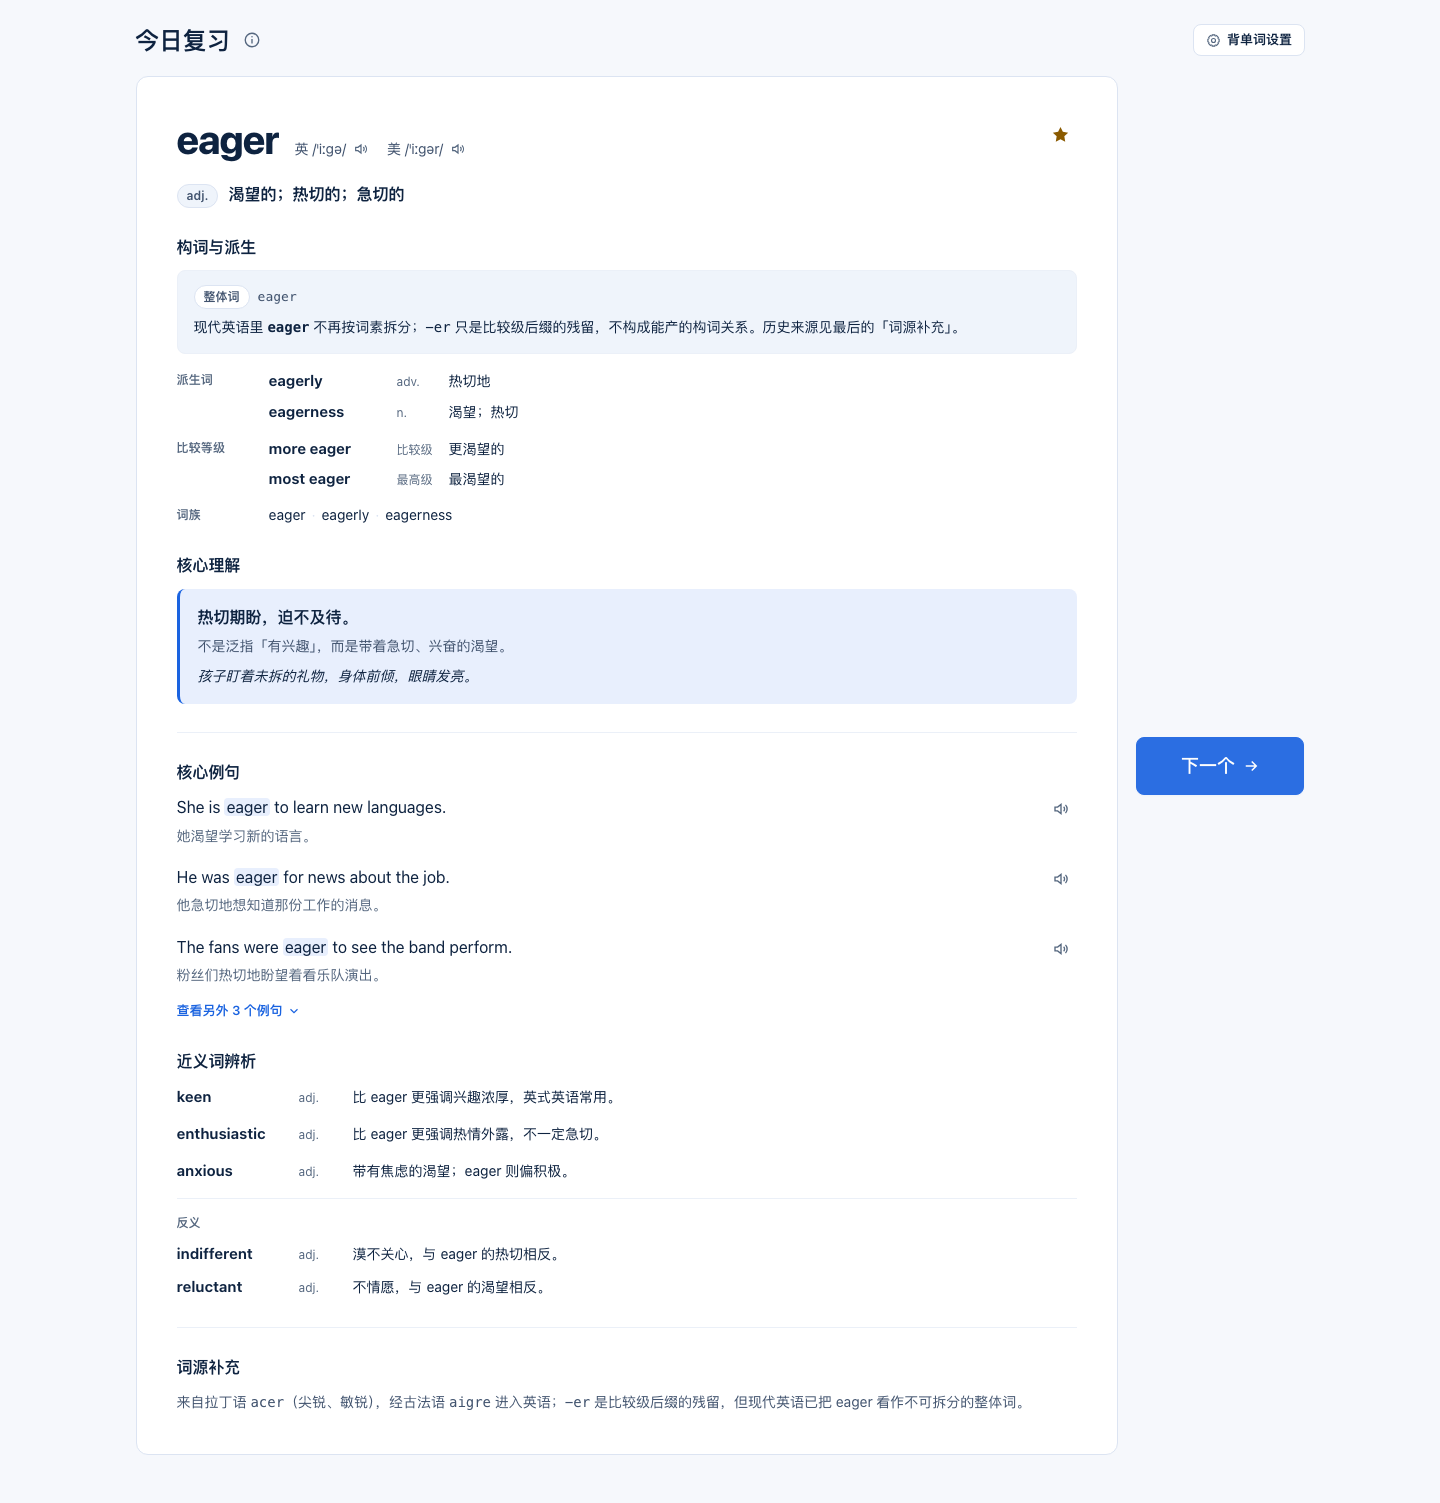
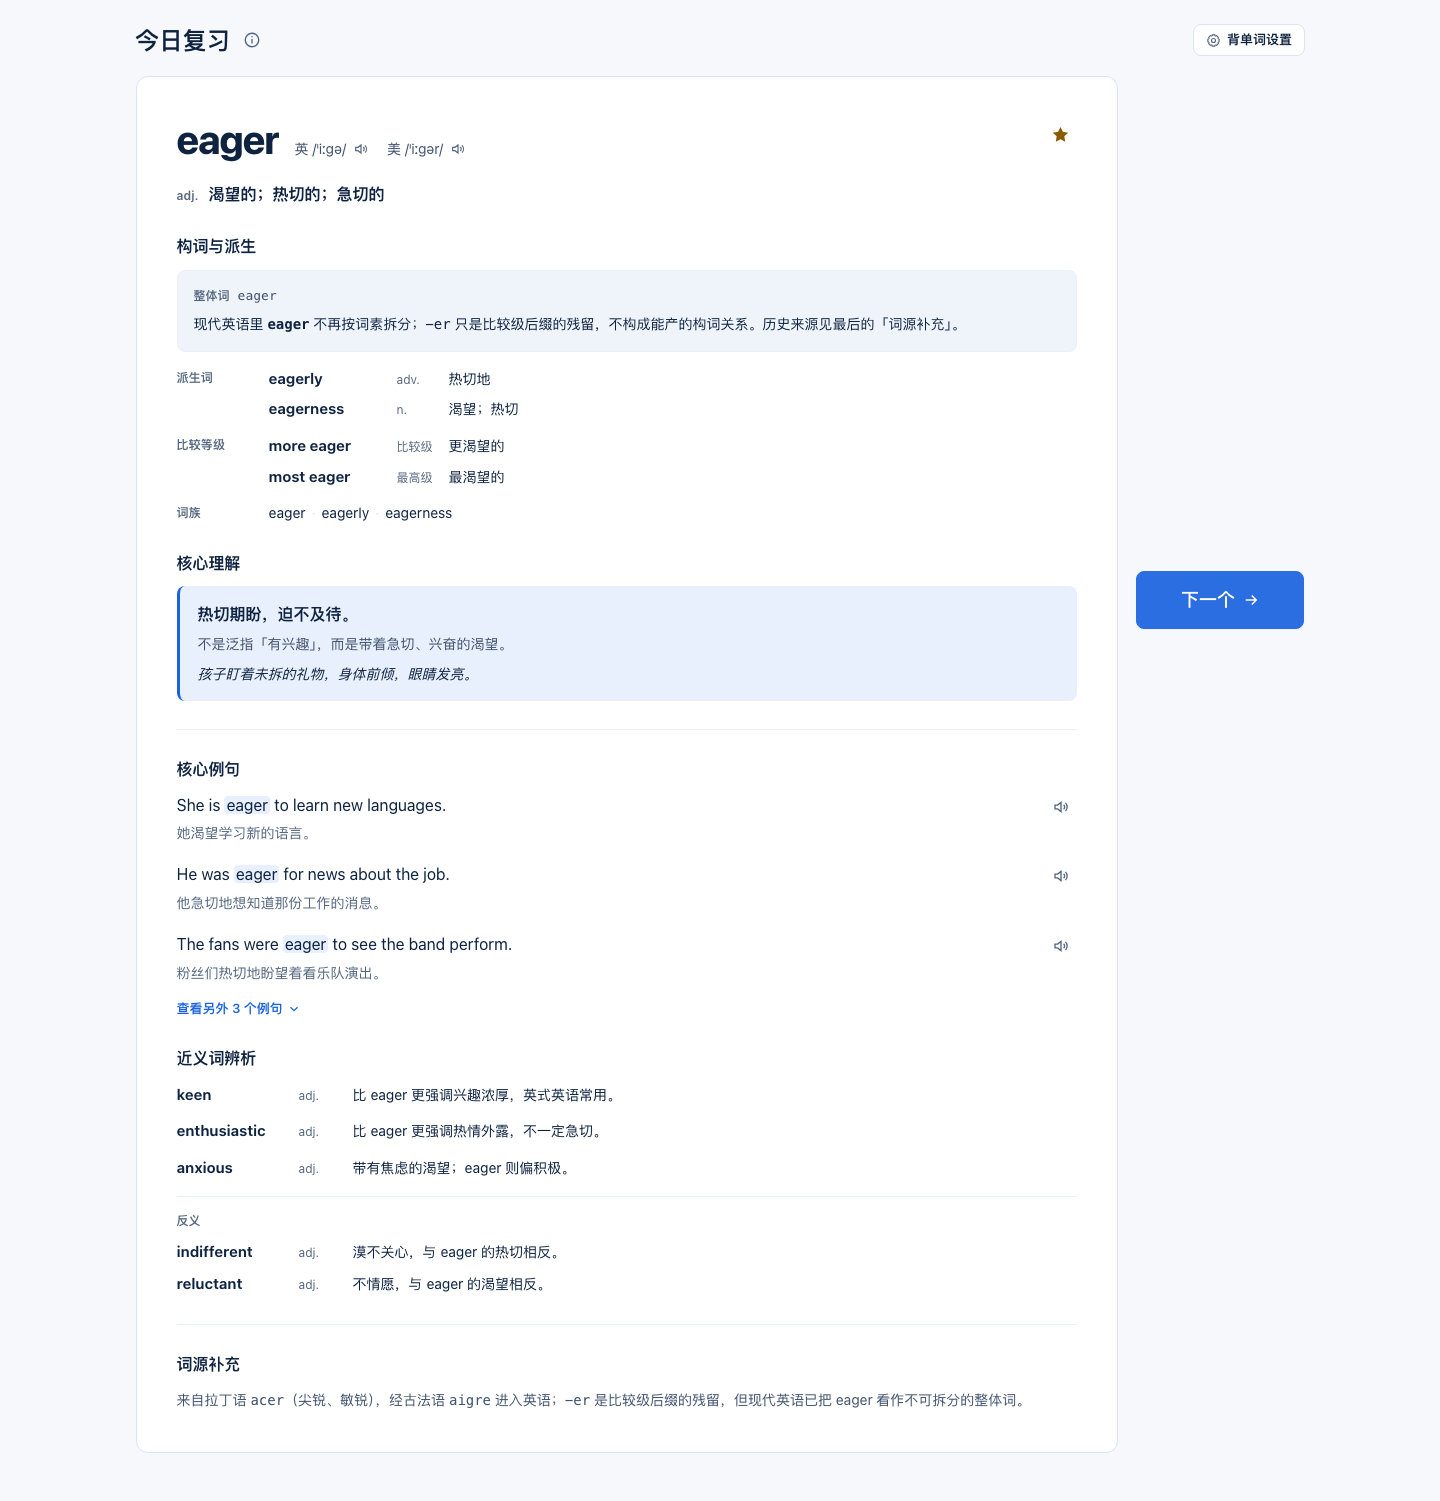
fix(mock): 下一个按钮 sticky 50vh；标签去色，设置页选中态改浅底

diff --git a/docs/mock/vocab-card-v1-2026-10-31/index.html b/docs/mock/vocab-card-v1-2026-10-31/index.html
@@ -266,14 +266,14 @@
   .pos {
     display: inline-flex;
     align-items: center;
-    padding: 0 9px;
+    padding: 0;
     font-size: 12px;
-    line-height: 1.8;
+    line-height: 1.65;
     font-weight: 600;
-    color: var(--muted);
-    background: var(--panel-2);
-    border: 1px solid var(--line);
-    border-radius: 999px;
+    color: var(--muted-2);
+    background: transparent;
+    border: 0;
+    border-radius: 0;
     white-space: nowrap;
   }
   .meaning { font-size: 16px; font-weight: 650; }
@@ -293,14 +293,14 @@
   .morph-status {
     display: inline-flex;
     align-items: center;
-    padding: 0 9px;
+    padding: 0;
     font-size: 12px;
-    line-height: 1.8;
+    line-height: 1.65;
     font-weight: 600;
-    color: var(--muted);
-    background: var(--panel);
-    border: 1px solid var(--line);
-    border-radius: 999px;
+    color: var(--muted-2);
+    background: transparent;
+    border: 0;
+    border-radius: 0;
   }
   .morph-note { margin: 0; font-size: 14px; line-height: 1.75; }
   .morph-note .mono, .mono { font-family: var(--mono); }
@@ -389,7 +389,9 @@
 
   /* 右侧「下一个」 */
   .next-btn {
-    align-self: center;
+    position: sticky;
+    top: calc(50vh - 29px);
+    align-self: flex-start;
     display: inline-flex;
     align-items: center;
     justify-content: center;
@@ -409,6 +411,7 @@
     transition: background .12s, color .12s, border-color .12s, opacity .12s, box-shadow .12s;
   }
   .next-btn:hover { opacity: 1; box-shadow: 0 2px 8px var(--line); }
+  .stage.is-front .next-btn { position: static; top: auto; align-self: center; }
   .next-btn.is-primary { background: var(--accent); border-color: var(--accent); color: var(--on-accent); }
   .next-btn.is-primary:hover { background: var(--accent-2); border-color: var(--accent-2); }
 
@@ -436,8 +439,8 @@
     cursor: pointer;
   }
   .btn:hover { border-color: var(--muted-2); }
-  .btn.is-primary { background: var(--accent); border-color: var(--accent); color: var(--on-accent); }
-  .btn.is-primary:hover { background: var(--accent-2); border-color: var(--accent-2); }
+  .btn.is-primary { background: var(--accent-weak); border-color: var(--accent); color: var(--accent); font-weight: 600; }
+  .btn.is-primary:hover { background: var(--accent-weak); border-color: var(--accent-2); color: var(--accent-2); }
   .pref-number {
     width: 84px;
     height: 32px;
@@ -511,7 +514,7 @@
     .word-card { padding: 28px 22px 30px; }
     .word-card[data-face="front"] { min-height: 360px; }
     .word { font-size: 34px; }
-    .next-btn { align-self: flex-end; }
+    .next-btn { position: static; top: auto; align-self: flex-end; }
     .first-run { flex-wrap: wrap; }
     .first-run-actions { width: 100%; justify-content: flex-end; }
     .morph-rows { grid-template-columns: 1fr; gap: 6px; }
@@ -869,6 +872,7 @@
 
   function setFace(face) {
     card.dataset.face = face;
+    $('.stage').classList.toggle('is-front', face === 'front');
     nextBtn.classList.toggle('is-primary', face === 'back');
     $$('.proto-tabs [data-view]').forEach((button) => {
       button.classList.toggle('is-on', button.dataset.view === face);

diff --git a/docs/mock/vocab-card-v1-2026-10-31/README.md b/docs/mock/vocab-card-v1-2026-10-31/README.md
@@ -96,6 +96,7 @@ const CARD_BLOCKS = ['senses', 'morphology', 'core', 'examples', 'synonyms', 'et
 ## 3. 页面 chrome
 
 - **页头**：`今日复习` + ⓘ。ⓘ 里是「今日已复习 / 剩余 / 新卡」+ 快捷键表；今日复习页本来就有这个入口（[ReviewPage.tsx:358](../../../web/src/vocab/ReviewPage.tsx#L358-L380)），不需要新做。
+- **右侧「下一个」**：按钮本身的尺寸 / 样式 / 文案不变（168×58、18px）；反面把它改成 `position: sticky; top: calc(50vh - 29px)`——**固定在视口垂直中心，滚动和卡背变长都不会把它推到下面**；卡片正面保持原来的「相对卡片垂直居中」。窄屏（≤760）仍落回卡片下方。
 - **删底部提示**：只有自由复习页有 `空格翻面 · 1 不认识 · 2 认识 · S 暂停这个词`（[FreeReviewPage.tsx:555](../../../web/src/vocab/FreeReviewPage.tsx#L555)）；删掉，改由首用提示 + ⓘ 承接。
 - **首用提示**：首次进入显示一次可关闭的顶部条，之后不再出现；文案只做「快捷键说明」，不新增改键设置（本次默认）。
 - **profile**：`背单词` 标题右侧放 ⓘ，把现在的副标题「每天背多少、先复习还是先学新词、卡面显示什么」收进气泡；删掉标题下的那行 `p`（[ProfilePage.tsx:317](../../../web/src/app/ProfilePage.tsx#L317-L319)）。
@@ -150,10 +151,17 @@ const CARD_BLOCKS = ['senses', 'morphology', 'core', 'examples', 'synonyms', 'et
 
 - 七个模块顺序与上表一致；构词与派生默认展示、不整体折叠；
 - 例句默认 3 条，`查看另外 3 个例句` 只影响例句块，收起后回到 3 条；
-- 卡片正面、`不认识 / 认识`、右侧 `下一个 →` 与当前实现一致（168×58、18px、主色描边、白底/翻面后主按钮）；
+- 卡片正面、`不认识 / 认识`、右侧 `下一个 →` 与当前实现一致（168×58、18px、主色描边、白底/翻面后主按钮）；反面 `下一个` 固定在视口 50vh，正面保持在卡片中心；
+- 标签不做颜色编码：`adj.`、`整体词`、`反义`、模块标题都只用中性文字；颜色只留给「核心理解」一个 accent 和主操作；设置页的选中态用浅底 + 主色描边，不再整块填蓝；
 - 1440×900 与 834×1194 无横向溢出，正文 14px，主操作首屏可见；
 - 颜色只用 `web/src/styles/tokens.css` 的令牌；卡片 12px 圆角、1px 边框、无投影；正文 ≥14px。
 - 不出现会员/推广/tab/弹窗；不把 `analysis` 与 `etymology` 写成同一句。
+
+## 6.1 本轮修订（2026-10-31）
+
+- 「下一个」从「相对卡片垂直居中」改为「反面 sticky 在视口 50vh」：卡背再长、页面再滚，按钮都停在视口中间；正面仍是原来的卡片中心。实现时给 `.review-next` 加 sticky / top 50vh，正面分支恢复 align-self center。
+- 去掉颜色编码标签：`adj.` / `整体词` 从胶囊改成普通 12px 中性字；设置页选中态从实色蓝块改成浅底 + 主色描边。颜色只保留「核心理解」的 accent 和主操作。
+- 词源末尾的 `Latin acer · Old French aigre · English eager` 裸链删除；词源只用中文解释（用户 2026-10-31 反馈：没人看得懂）。
 
 ## 7. 实现备注（不在本 mock 内）
 
